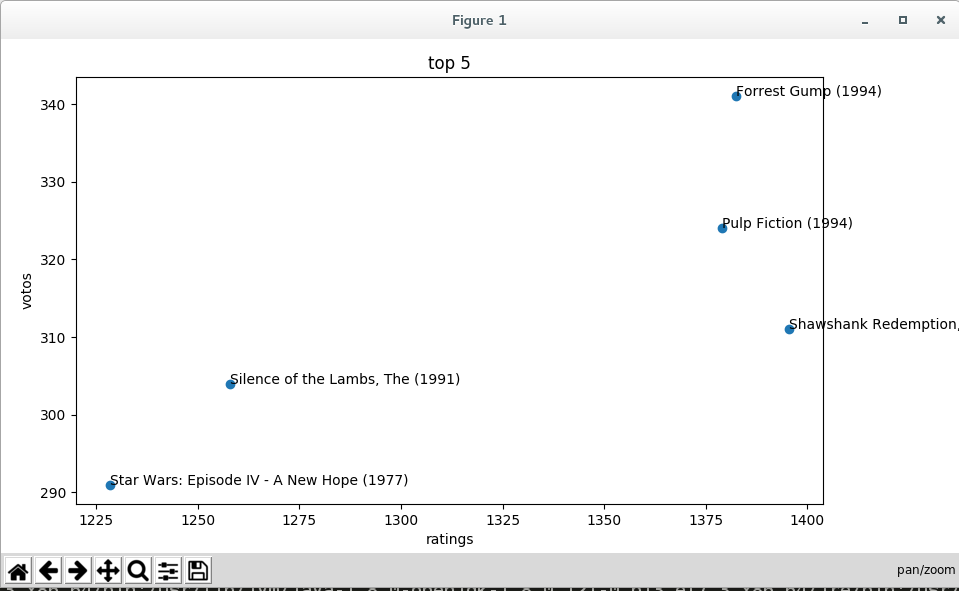
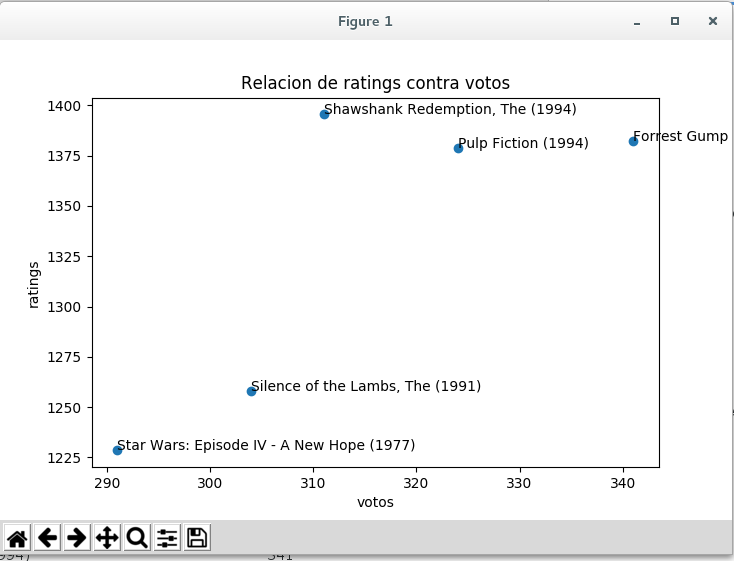
añadir histograma

diff --git a/moviestop5hist.py b/moviestop5hist.py
@@ -177,33 +177,25 @@ print(ratings1)
 
 
 
-select = rated_movies[['title', 'rating']]
-agrupar = select.groupby('title')
-contar = agrupar.count().sort_values('rating', ascending=False)
+#select = rated_movies[['title', 'rating']]
+#agrupar = select.groupby('title')
+#contar = agrupar.count().sort_values('rating', ascending=False)
 
+contar = rated_movies.groupby('title').size()
 a = contar.ix[movie]
 
-count_dict = a.to_dict()
-count_items = count_dict['rating'].items()
-
-conteo = []
-
-
-for name, value in count_items:
-    conteo.append(value)
-print(conteo)
-
+print(a)
 
 fig, ax = plt.subplots()
-ax.scatter(ratings1, conteo)
+ax.scatter(a, ratings1)
 
 for i, txt in enumerate(movie):
- ax.annotate(txt, (ratings1[i],conteo[i]))
+ ax.annotate(txt, (a[i],ratings1[i]))
 
 
-plt.xlabel('ratings')
-plt.ylabel('votos')
-plt.title('top 5')
+plt.xlabel('votos')
+plt.ylabel('ratings')
+plt.title('Relacion de ratings contra votos')
 
 plt.show()
 
